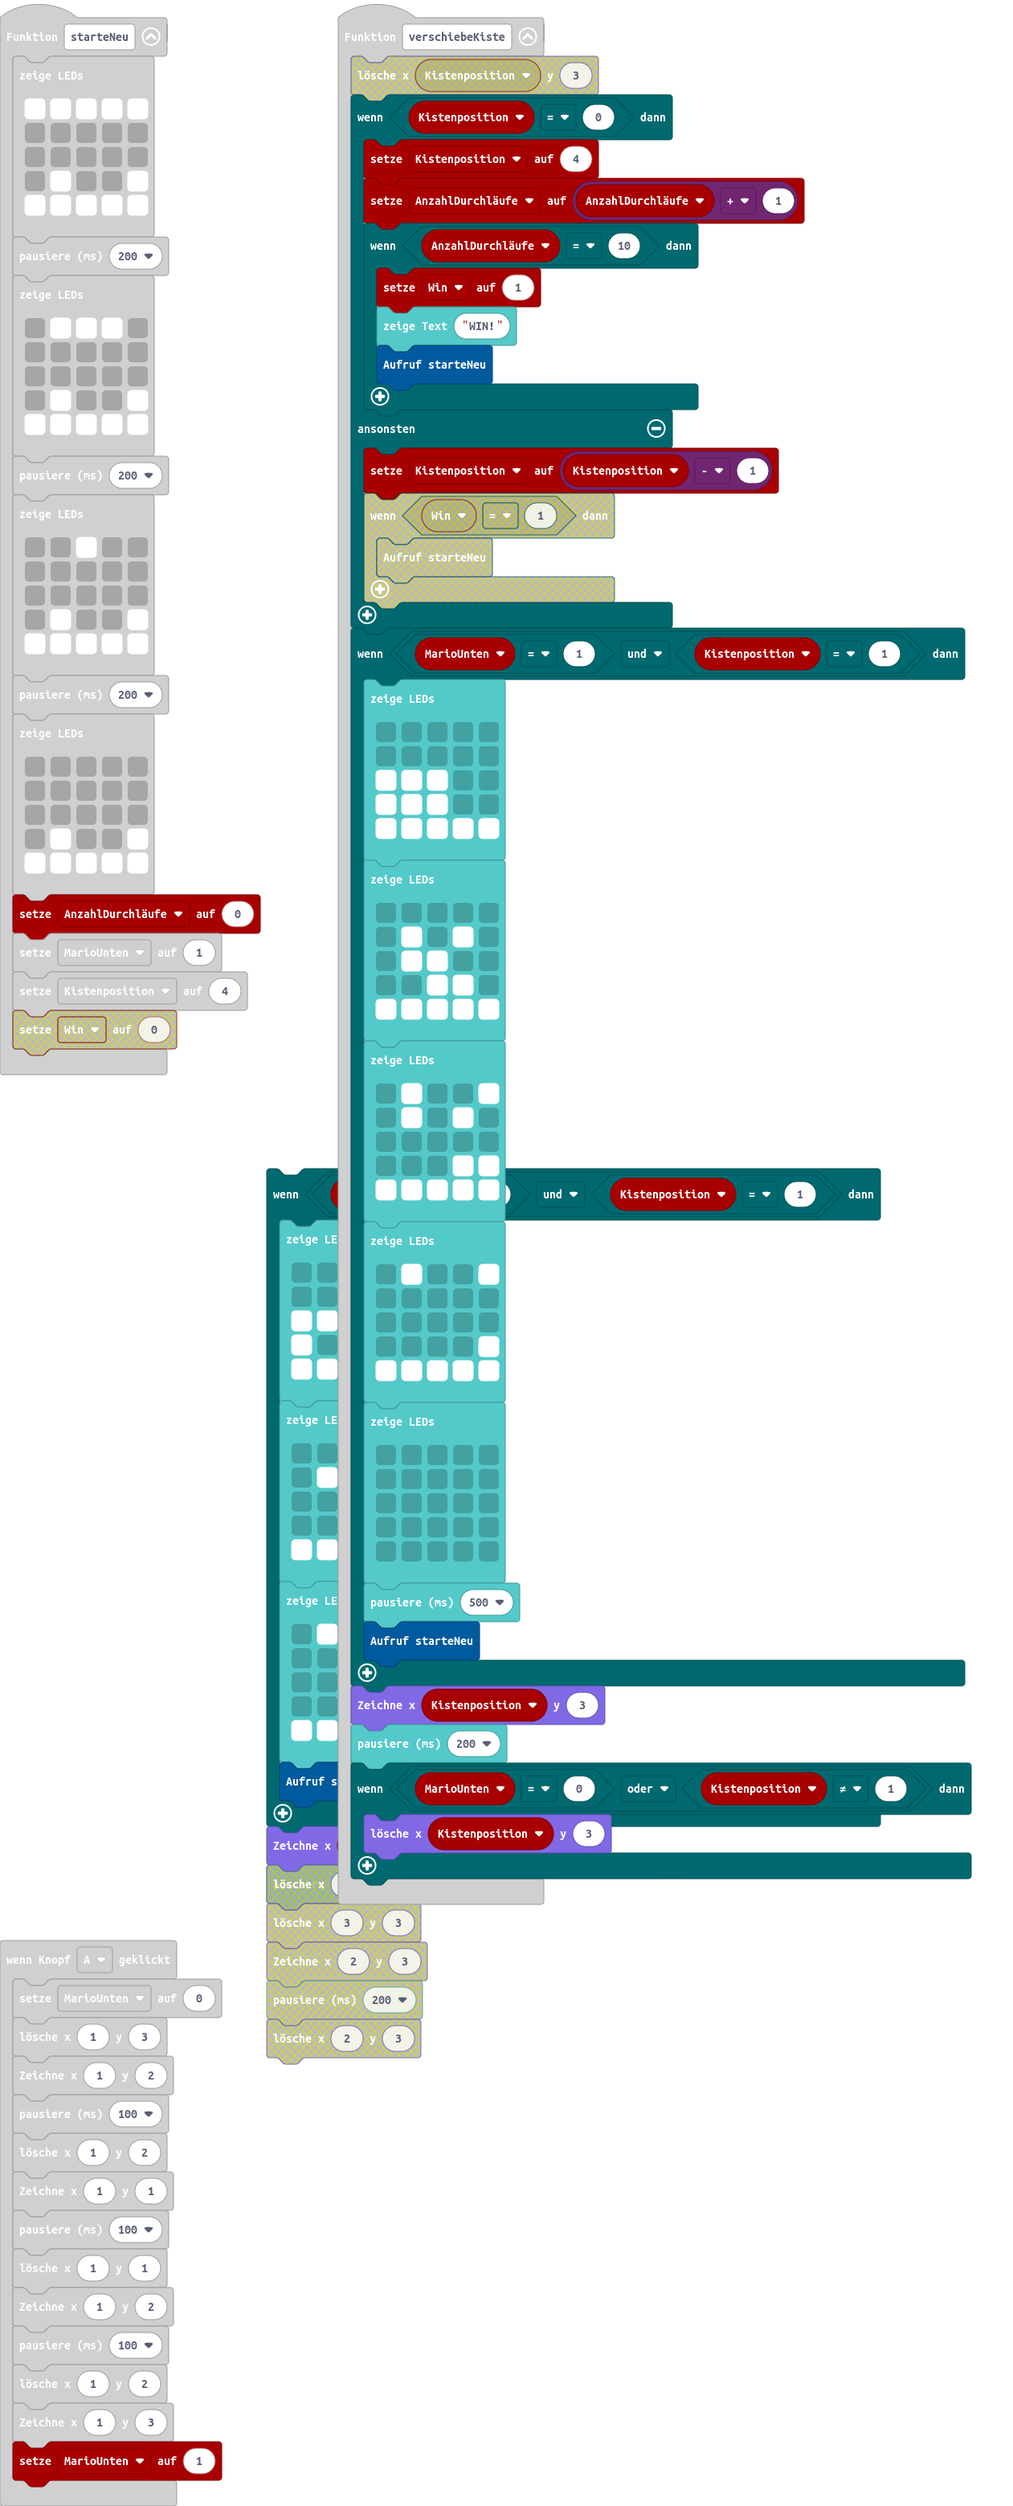
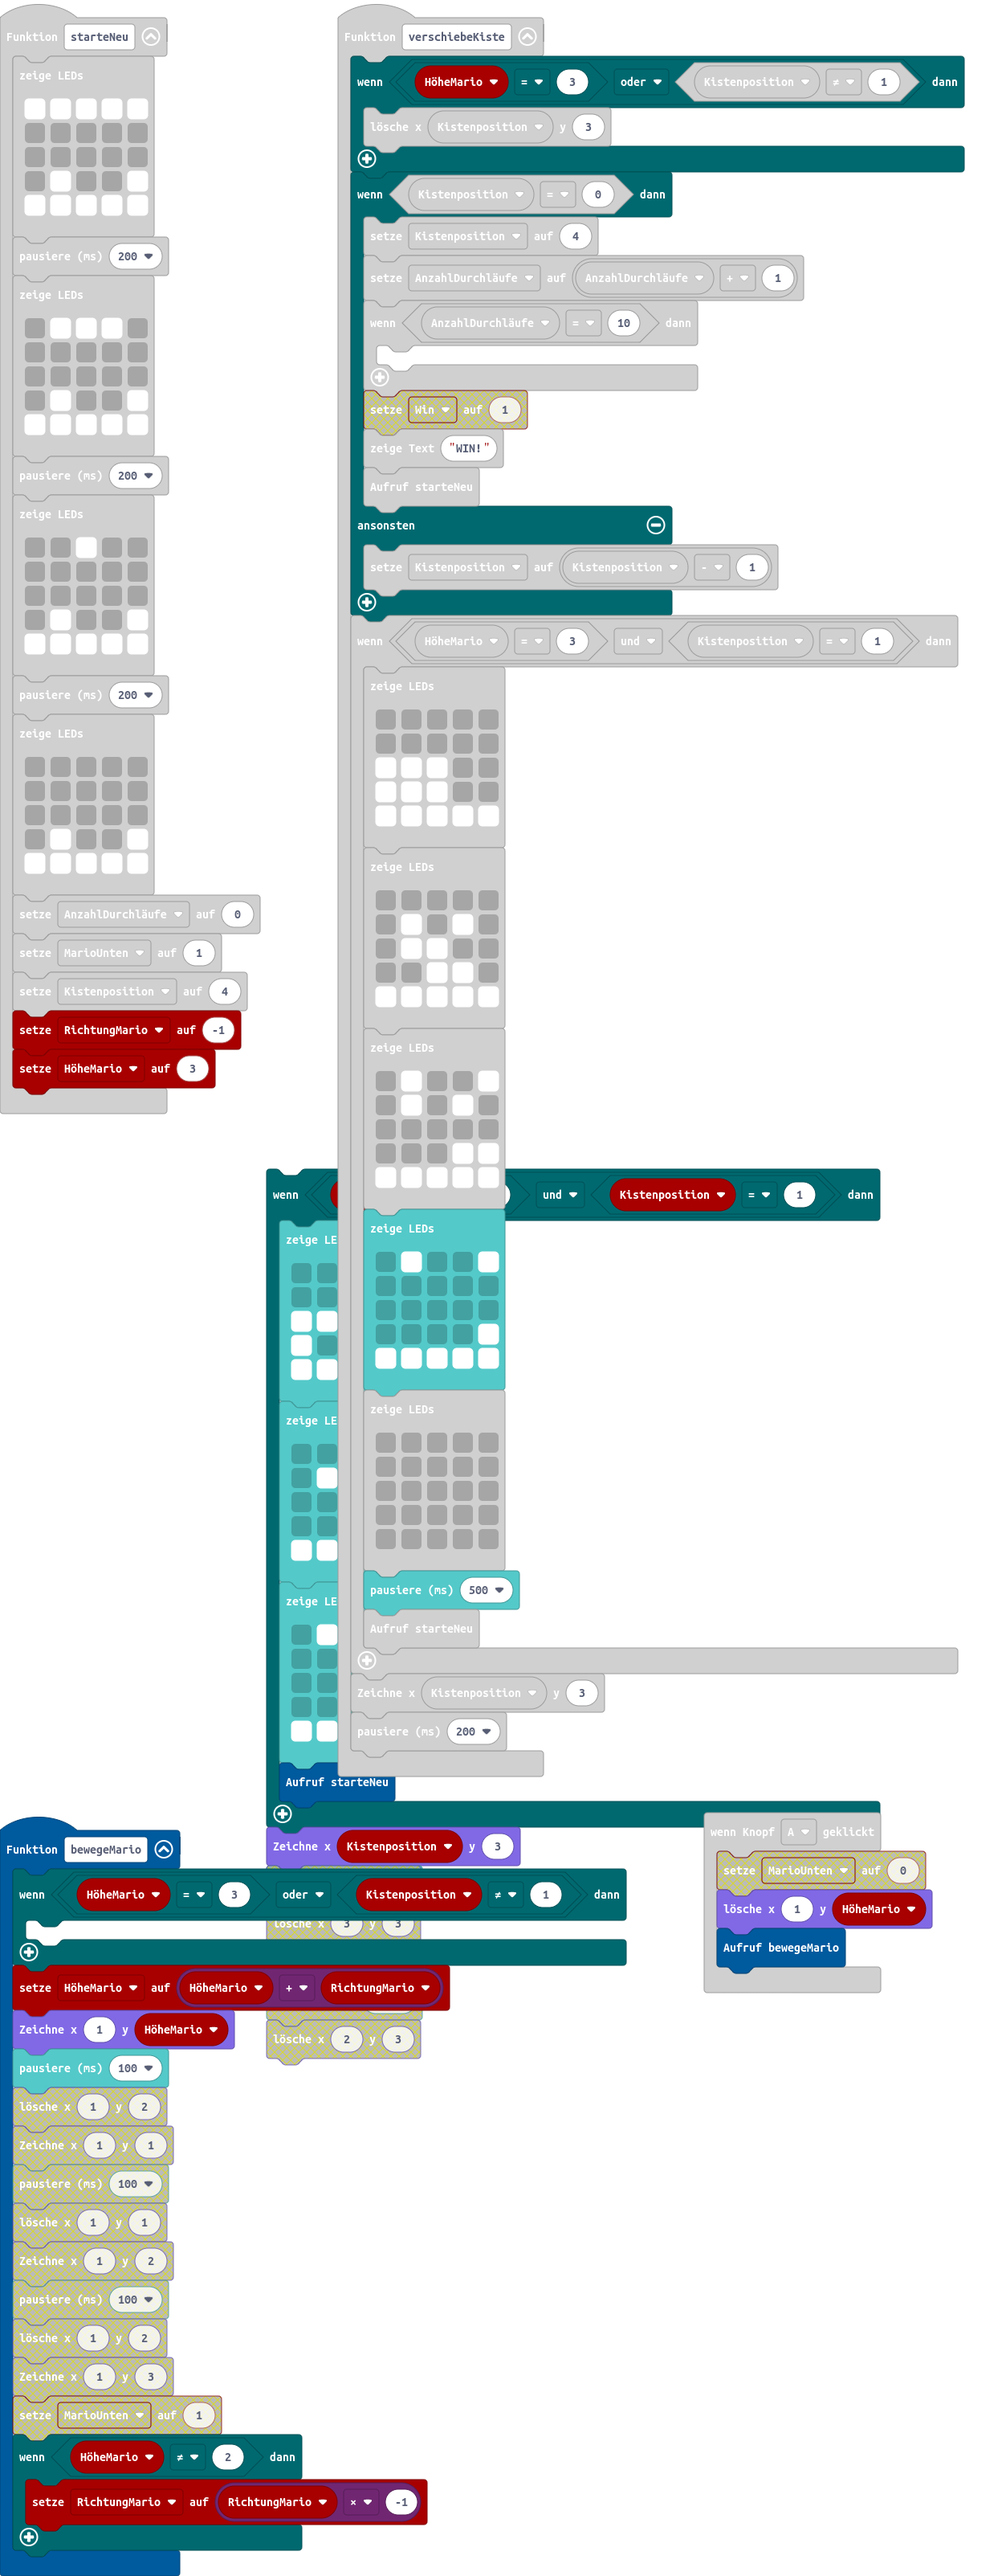
BewegeMario Funktion geschrieben

diff --git a/main.ts b/main.ts
@@ -1,18 +1,17 @@
 input.onButtonPressed(Button.A, function () {
-    MarioUnten = 0
-    led.unplot(1, 3)
-    led.plot(1, 2)
-    basic.pause(100)
-    led.unplot(1, 2)
-    led.plot(1, 1)
-    basic.pause(100)
-    led.unplot(1, 1)
-    led.plot(1, 2)
-    basic.pause(100)
-    led.unplot(1, 2)
-    led.plot(1, 3)
-    MarioUnten = 1
+    bewegeMario()
 })
+function bewegeMario () {
+    if (HöheMario == 3 || Kistenposition != 1) {
+        led.unplot(1, HöheMario)
+    }
+    HöheMario = HöheMario + RichtungMario
+    led.plot(1, HöheMario)
+    basic.pause(100)
+    if (HöheMario != 2) {
+        RichtungMario = RichtungMario * -1
+    }
+}
 function starteNeu () {
     basic.showLeds(`
         # # # # #
@@ -48,23 +47,24 @@ function starteNeu () {
     AnzahlDurchläufe = 0
     MarioUnten = 1
     Kistenposition = 4
+    RichtungMario = -1
+    HöheMario = 3
 }
 function verschiebeKiste () {
-    if (MarioUnten == 0 || Kistenposition != 1) {
+    if (HöheMario == 3 || Kistenposition != 1) {
         led.unplot(Kistenposition, 3)
     }
     if (Kistenposition == 0) {
         Kistenposition = 4
         AnzahlDurchläufe = AnzahlDurchläufe + 1
         if (AnzahlDurchläufe == 10) {
-            Win = 1
             basic.showString("WIN!")
             starteNeu()
         }
     } else {
         Kistenposition = Kistenposition - 1
     }
-    if (MarioUnten == 1 && Kistenposition == 1) {
+    if (HöheMario == 3 && Kistenposition == 1) {
         basic.showLeds(`
             . . . . .
             . . . . .
@@ -106,10 +106,11 @@ function verschiebeKiste () {
     led.plot(Kistenposition, 3)
     basic.pause(200)
 }
-let Win = 0
-let Kistenposition = 0
-let AnzahlDurchläufe = 0
 let MarioUnten = 0
+let AnzahlDurchläufe = 0
+let RichtungMario = 0
+let Kistenposition = 0
+let HöheMario = 0
 starteNeu()
 basic.forever(function () {
     verschiebeKiste()
